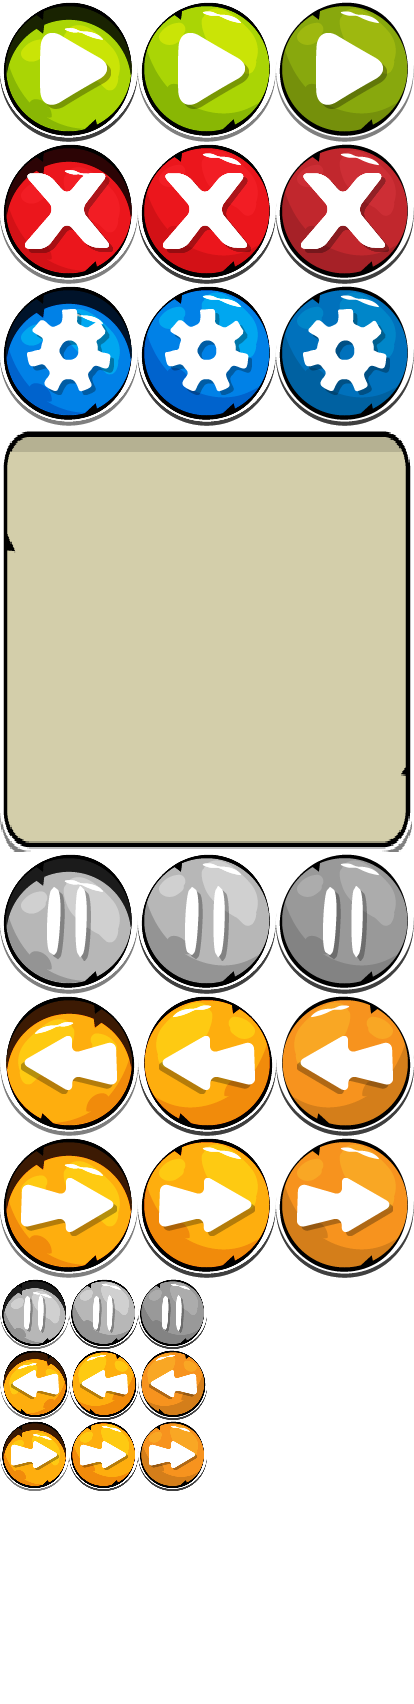
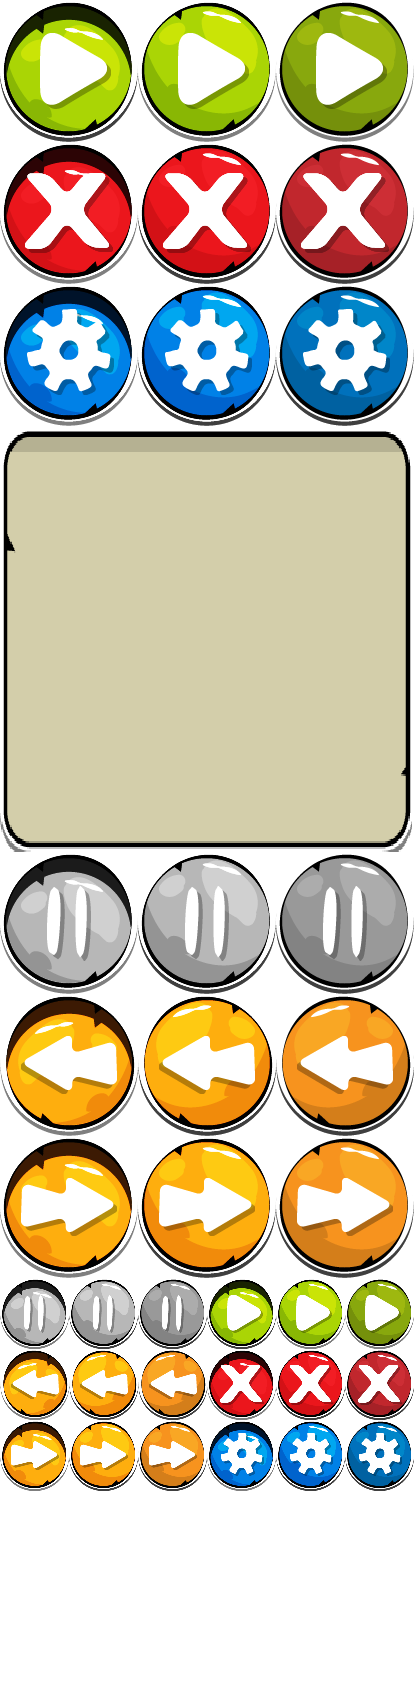
More sprite and implemented quit button in settings, work the first time

Changed region(s): [[0.4928, 0.7465, 1.0, 0.902]]

diff --git a/Motor2D/j1Scene.cpp b/Motor2D/j1Scene.cpp
@@ -37,50 +37,61 @@ bool j1Scene::Awake(pugi::xml_node& config)
 bool j1Scene::Start()
 {
 	App->audio->PlayMusic("audio/music.ogg");
-
-	const SDL_Texture* background = App->tex->Load("maps/Background.png");
-	
-	App->gui->CreateImage({ 0,0 }, { 0,0,1200,800 }, background, this, false);
-	buttons.add(playButton = App->gui->CreateButton({ 100,600 }, { 276,0,138,142 }, { 138,0,138,142 }, { 0,0,138,142 }, App->gui->GetAtlas(), this, true));
-	buttons.add(settingsButton = App->gui->CreateButton({ 800,0 }, { 276,284,138,142 }, { 138,284,138,142 }, { 0,284,138,142 }, App->gui->GetAtlas(), this, true));
-	buttons.add(quitButton = App->gui->CreateButton({ 800,600 }, { 276,142,138,142 }, { 138,142,138,142 }, { 0,142,138,142 }, App->gui->GetAtlas(), this, true));
-
+	CreateMainScene();
+	actualScene = Main_scene;
 	return true;
 }
 
 // Called each loop iteration
 bool j1Scene::PreUpdate()
 {
-	//Menu options
-	if (buttons.count() != 0)
-	{//PLAY BUTTON
-		if (playButton->eventElement == MouseLeftClickEvent)
+	
+
+
+	switch (actualScene)
+	{
+	case Main_scene:
+		if (buttons.count() != 0)
 		{
-			App->fade->FadeToBlack("level1ND.tmx", 2.0);
-			App->map->level = level_1;
-			
-			buttons.clear();
-		}
-		else if (settingsButton->eventElement == MouseLeftClickEvent)
-		{
-			//need change
-			settingsImage = App->gui->CreateImage({ -300,100 }, { 0,426,414,426 }, App->gui->GetAtlas(), this, true);
-			settingsImage->SetParent(settingsButton);
-			minusVolume = App->gui->CreateButton({50,100}, { 138,1350,69,70 }, { 69,1350,69,70 }, { 0,1350,69,70 }, App->gui->GetAtlas(),this,false);
-			plusVolume = App->gui->CreateButton({ 250,100 }, { 138,1420,69,70 }, {69,1420,69,70 }, { 0,1420,69,70 }, App->gui->GetAtlas(), this, false);
-			minusVolume->SetParent(settingsImage);
-			plusVolume->SetParent(settingsImage);
+			if (playButton->eventElement == MouseLeftClickEvent)
+			{
+				App->fade->FadeToBlack("level1ND.tmx", 2.0);
+				App->map->level = level_1;
+
+				buttons.clear();
+			}
+			else if (settingsButton->eventElement == MouseLeftClickEvent)
+			{
 				
+				CreateSettingsScene();
+				actualScene = Settings_scene;
+			}
+			else if (quitButton->eventElement == MouseLeftClickEvent) //quit button
+				return false;
+			
 		}
-		else if (quitButton->eventElement == MouseLeftClickEvent) //quit button
+		break;
+
+	case Settings_scene:
+		if (plusVolume->eventElement == MouseLeftClickEvent)
 		{
-			return false;
-		}
-		if (plusVolume != nullptr && plusVolume->eventElement == MouseLeftClickEvent)
 			App->audio->volume += 2;
-		else if(minusVolume != nullptr && minusVolume->eventElement == MouseLeftClickEvent)
+			Mix_VolumeMusic((int)(App->audio->volume * 1.28));
+		}
+		else if (minusVolume->eventElement == MouseLeftClickEvent)
+		{
 			App->audio->volume -= 2;
+			Mix_VolumeMusic((int)(App->audio->volume * 1.28));
+		}
+		else if (crossButton->eventElement == MouseLeftClickEvent)
+		{
+			DeleteSettings();
+			actualScene = Main_scene;
+		}
+		break;
 	}
+	//Menu options
+
 	return true;
 }
 
@@ -153,7 +164,7 @@ bool j1Scene::Update(float dt)
 
 	App->map->Draw();
 	//Volume Control
-	Mix_VolumeMusic((int)(App->audio->volume * 1.28));
+	
 
 	return true;
 }
@@ -206,3 +217,35 @@ void j1Scene::onUiTriggered(UIElement* UIelement, EventElement EventElement)
 	}
 }
 
+void j1Scene::CreateMainScene()
+{
+	const SDL_Texture* background = App->tex->Load("maps/Background.png");
+
+	App->gui->CreateImage({ 0,0 }, { 0,0,1200,800 }, background, this, false);
+	buttons.add(playButton = App->gui->CreateButton({ 100,600 }, { 276,0,138,142 }, { 138,0,138,142 }, { 0,0,138,142 }, App->gui->GetAtlas(), this, true));
+	buttons.add(settingsButton = App->gui->CreateButton({ 800,0 }, { 276,284,138,142 }, { 138,284,138,142 }, { 0,284,138,142 }, App->gui->GetAtlas(), this, true));
+	buttons.add(quitButton = App->gui->CreateButton({ 800,600 }, { 276,142,138,142 }, { 138,142,138,142 }, { 0,142,138,142 }, App->gui->GetAtlas(), this, true));
+}
+
+void j1Scene::CreateSettingsScene()
+{
+	settingsImage = App->gui->CreateImage({ -500,100 }, { 0,426,414,426 }, App->gui->GetAtlas(), this, true);
+	settingsImage->SetParent(settingsButton);
+	minusVolume = App->gui->CreateButton({ 50,100 }, { 138,1350,69,70 }, { 69,1350,69,70 }, { 0,1350,69,70 }, App->gui->GetAtlas(), this, false);
+	plusVolume = App->gui->CreateButton({ 250,100 }, { 138,1420,69,70 }, { 69,1420,69,70 }, { 0,1420,69,70 }, App->gui->GetAtlas(), this, false);
+	minusVolume->SetParent(settingsImage);
+	plusVolume->SetParent(settingsImage);
+	crossButton = App->gui->CreateButton({ 330,10 }, { 345,1350,69,70 }, { 276,1350,69,70 }, { 207,1350,69,70 }, App->gui->GetAtlas(), this, false);
+	crossButton->SetParent(settingsImage);
+}
+
+void j1Scene::DeleteSettings()
+{
+	settingsImage->toDelete = true;
+	minusVolume->toDelete = true;
+	plusVolume->toDelete = true;
+	crossButton->toDelete = true;
+
+
+
+}

diff --git a/Motor2D/j1Gui.cpp b/Motor2D/j1Gui.cpp
@@ -52,7 +52,7 @@ bool j1Gui::Update(float dt)
 	if (App->input->GetKey(SDL_SCANCODE_F1) == KEY_DOWN)
 		drawDebug = !drawDebug;
 
-	if (UiElement.start->data != nullptr)
+	/*if (UiElement.start->data != nullptr)
 	{
 		p2List_item<UIElement*> *Ui_item = UiElement.start;
 
@@ -71,6 +71,25 @@ bool j1Gui::Update(float dt)
 				Ui_item->data->DebugDraw();
 			Ui_item = Ui_item->next;
 		}
+	}*/
+	for (uint i = 0; i < UiElement.count(); i++)
+	{
+		if (UiElement[i] != nullptr)
+		{
+			UiElement[i]->Update(dt);
+		}
+	}
+
+	for (uint i = 0; i < UiElement.count(); i++)
+	{
+		if (UiElement[i] != nullptr)
+		{
+			UiElement[i]->Draw();
+			if (drawDebug == true)
+			{
+				UiElement[i]->DebugDraw();
+			}
+		}
 	}
 
 	return true;
@@ -79,20 +98,20 @@ bool j1Gui::Update(float dt)
 // Called after all Updates
 bool j1Gui::PostUpdate()
 {
-	if (UiElement.start->data != nullptr)
-	{
+	
 		for (uint i = 0; i < UiElement.count(); i++)
 		{
+			if (UiElement[i] != nullptr)
+			{
 			if (UiElement[i]->toDelete == true)
 			{
-				if (UiElement[i] != nullptr)
-				{
+				
 					delete UiElement[i];
 					UiElement[i] = nullptr;
 				}
 			}
 		}
-	}
+	
 	return true;
 }
 
@@ -156,15 +175,17 @@ void j1Gui::SortByDrawOrder()
 	{
 		swap = false;
 		p2List_item<UIElement*> *item = UiElement.start;
-
-		while (item != nullptr && item->next != nullptr)
+		if (item->data != nullptr)
 		{
-			if (item->data->positionToDraw > item->next->data->positionToDraw)
+			while (item != nullptr && item->next != nullptr)
 			{
-				SWAP(item->data, item->next->data);
-				swap = true;
+				if (item->data->positionToDraw > item->next->data->positionToDraw)
+				{
+					SWAP(item->data, item->next->data);
+					swap = true;
+				}
+				item = item->next;
 			}
-			item = item->next;
 		}
 	}
 }

diff --git a/Motor2D/j1Scene.h b/Motor2D/j1Scene.h
@@ -6,6 +6,14 @@
 #include "UiImage.h"
 struct SDL_Texture;
 
+enum Scene
+{
+	Main_scene,
+	Settings_scene,
+	Levels_scene,
+	None_scene
+};
+
 class j1Scene : public j1Module
 {
 public:
@@ -34,6 +42,9 @@ public:
 	bool CleanUp();
 
 	void onUiTriggered(UIElement* UIelement, EventElement EventElement);
+	void CreateMainScene();
+	void CreateSettingsScene();
+	void DeleteSettings();
 private:
 	p2SString map;
 	iPoint mouseCoordenates;
@@ -41,7 +52,9 @@ private:
 	p2List<UIButton*> buttons;
 	UIButton* playButton= nullptr, *settingsButton = nullptr, *quitButton= nullptr;
 	UIImage* settingsImage = nullptr;
-	UIButton* plusVolume = nullptr, *minusVolume = nullptr;
+	UIButton* plusVolume = nullptr, *minusVolume = nullptr, *crossButton = nullptr;
+	Scene actualScene = None_scene;
+
 };
 
 #endif // __j1SCENE_H__

diff --git a/Motor2D/UIElement.cpp b/Motor2D/UIElement.cpp
@@ -12,9 +12,7 @@ UIElement::UIElement(iPoint position, j1Module* listener, bool drag) : localPosi
 
 UIElement::~UIElement()
 {
-	if (texture != nullptr)
-		if (App->tex->UnLoad((SDL_Texture*)texture))
-			texture = nullptr;
+
 }
 
 void UIElement::Update(float dt)

diff --git a/Motor2D/p2List.h b/Motor2D/p2List.h
@@ -126,7 +126,8 @@ public:
 			}
 		}
 
-		RELEASE(item);
+		//RELEASE(item);
+
 		--size;
 		return(true);
 	}
